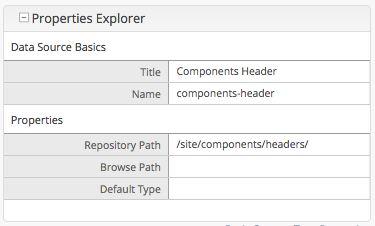
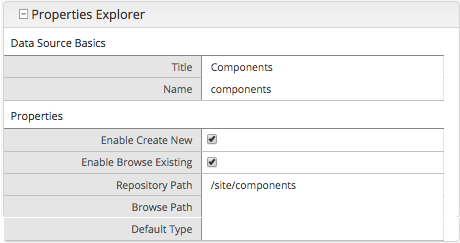
Update child-content datasource #2808 and #3097

Changed region(s): [[0.0, 0.0, 1.0, 1.0]]

diff --git a/source/developers/form-sources/form-source-child-content.rst b/source/developers/form-sources/form-source-child-content.rst
@@ -32,7 +32,9 @@ Configuration
 +------------------------+-----------------------------------------------------------------------+
 || Description/Purpose   || Data source to select or create content to be used on the form.      |
 +------------------------+-----------------------------------------------------------------------+
-|| Properties            || - Repository Path: Path where to store new content created.          |
+|| Properties            || - Enable Create New: Allows user to create a new item                |
+||                       || - Enable Browse Existing: Allows user to browse existing items       |
+||                       || - Repository Path: Path where to store new content created.          |
 ||                       || - Browse Path: Path where to browse the datasource items.            |
 ||                       || - Default Type: Default type of datasource items.                    |
 +------------------------+-----------------------------------------------------------------------+
